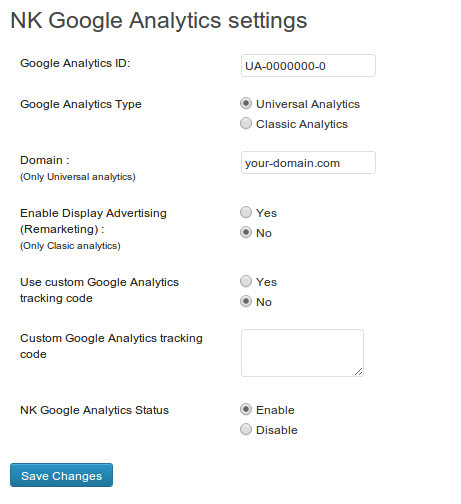
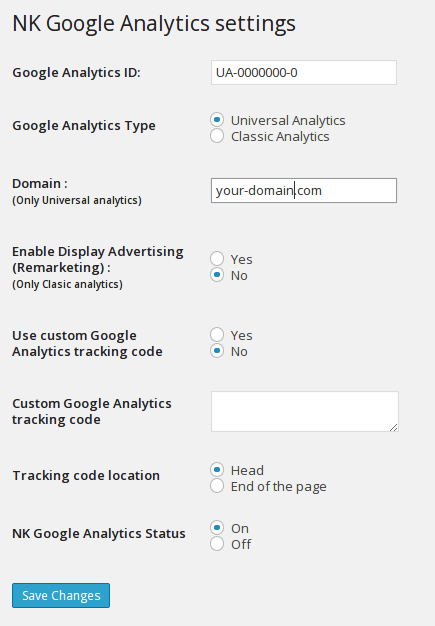
Updated Google Analytics

diff --git a/wp-content/plugins/nk-google-analytics/NKgoogleanalytics.php b/wp-content/plugins/nk-google-analytics/NKgoogleanalytics.php
@@ -3,8 +3,8 @@
 Plugin Name: NK Google Analytics
 Plugin URI: http://www.marodok.com/nk-google-analytics/
 Description: Add <a href="http://www.google.com/analytics/">Google Analytics</a> javascript code on all pages.
-Version: 1.2.7
-Author: Manfred Rodríguez
+Version: 1.3
+8Author: Manfred Rodríguez
 Author URI: http://www.marodok.com
 */
 
@@ -18,13 +18,21 @@ if (!defined('WP_PLUGIN_DIR'))
       define('WP_PLUGIN_DIR', WP_CONTENT_DIR.'/plugins');
 
 function activate_NKgoogleanalytics() {
+
+  $domain = 'your-domain.com';
+  if($_SERVER['SERVER_NAME']){
+    $domain = $_SERVER['SERVER_NAME'];
+  }
+
   add_option('nkweb_id', 'UA-0000000-0');
   add_option('nkweb_Display_Advertising', 'false');  
   add_option('nkweb_Universal_Analytics', 'true');
-  add_option('nkweb_Domain', 'your-domain.com');
+  add_option('nkweb_Domain', $domain);
   add_option('nkweb_Use_Custom', 'false');
   add_option('nkweb_Custom_Code', '');
-  add_option('nkweb_Enable_GA', 'true');
+  add_option('nkweb_Enable_GA', 'true');  
+  add_option('nkweb_Error', '');
+  add_option('nkweb_code_in_head', 'true');
 
   //Just for statistics
   try {
@@ -43,6 +51,8 @@ function deactive_NKgoogleanalytics() {
   delete_option('nkweb_Use_Custom');
   delete_option('nkweb_Custom_Code');
   delete_option('nkweb_Enable_GA');
+  delete_option('nkweb_Error');
+  delete_option('nkweb_code_in_head');
 }
 
 function admin_init_NKgoogleanalytics() {
@@ -53,6 +63,8 @@ function admin_init_NKgoogleanalytics() {
   register_setting('NKgoogleanalytics', 'nkweb_Use_Custom');
   register_setting('NKgoogleanalytics', 'nkweb_Custom_Code');
   register_setting('NKgoogleanalytics', 'nkweb_Enable_GA');
+  register_setting('NKgoogleanalytics', 'nkweb_Error');
+  register_setting('NKgoogleanalytics', 'nkweb_code_in_head');
 }
 
 function admin_menu_NKgoogleanalytics() {
@@ -73,6 +85,7 @@ function NKgoogleanalytics() {
   $nkweb_Use_Custom = get_option('nkweb_Use_Custom');
   $nkweb_Custom_Code = get_option('nkweb_Custom_Code');
   $nkweb_Enable_GA = get_option('nkweb_Enable_GA');
+  $nkweb_Error = get_option('nkweb_Error');  
 
   $tk = "";
   
@@ -85,10 +98,12 @@ function NKgoogleanalytics() {
       
       
       $tk .= "<script>" . $nkweb_Custom_Code . "</script>";
+      $tk = str_replace("<script><script>", "<script>", $tk);
+      $tk = str_replace("</script></script>", "</script>", $tk);
 
     }else{
       if($nkweb_id != "" && $nkweb_id != "UA-0000000-0"){
-
+        
         if($Universal_Analytics=="false"){
     
           $tk .= "<script type=\"text/javascript\">\n";
@@ -136,6 +151,8 @@ function NKgoogleanalytics() {
           $tk .= "</script> \n";
           
         }
+      }else{
+        update_option( "nkweb_Error", "There is a problem with your Google Analytics ID" );
       }
     }
     echo $tk;
@@ -149,9 +166,22 @@ if (is_admin()) {
   add_action('admin_menu', 'admin_menu_NKgoogleanalytics');
 }
 
-if (!is_admin()) {
-  
-  add_action('wp_head', 'NKgoogleanalytics'); 
+if(!function_exists('wp_get_current_user')) {
+    include(ABSPATH . "wp-includes/pluggable.php");
 }
 
-?>
+if(get_option('nkweb_code_in_head')=="true"){
+  $location = "wp_head";
+}else{
+  $location = "wp_footer";
+}
+
+try{
+  if (!current_user_can( 'edit_posts' )) {
+    add_action($location, 'NKgoogleanalytics');
+  }
+} catch (Exception $e) {
+  if (!is_admin()) { 
+    add_action($location, 'NKgoogleanalytics'); 
+  }  
+}

diff --git a/wp-content/plugins/nk-google-analytics/options.php b/wp-content/plugins/nk-google-analytics/options.php
@@ -6,7 +6,11 @@
 <?php settings_fields('NKgoogleanalytics'); ?>
 
 <?php 
+
+	$nkweb_Error = get_option('nkweb_Error');
 	$error = "";
+	if($nkweb_Error!="")	
+		$error = $nkweb_Error;		
 
 	if(get_option('nkweb_Enable_GA')!="true" && get_option('nkweb_Enable_GA')!="false"){
 		update_option( "nkweb_Enable_GA", "true" );
@@ -16,13 +20,14 @@
 	}
 	if(get_option('nkweb_Display_Advertising') == "true"){
 		if(get_option('nkweb_Universal_Analytics')== "true"){
-			$error = "Universal Analytics was set to 'No' because Remarketing is Yes.";
+			$error = "Google Analytics Type was set to 'Clasic Analytics' because Remarketing is Yes.";
 			update_option( "nkweb_Universal_Analytics", "false" );	
 		}		
 	}
 	if(get_option('nkweb_Universal_Analytics')== "true"){
+
 		if(get_option('nkweb_Display_Advertising') == "true"){
-			$error = "Remarketing was set to 'No' because Universal Analytics is Yes.";
+			$error = "Remarketing was set to 'No' because Google Analytics Type is 'Universal Analytics'.";
 			update_option( "nkweb_Display_Advertising", "false" );	
 		}		
 		
@@ -66,6 +71,10 @@
 		if(preg_match($pattern, trim(get_option('nkweb_Custom_Code')))){
 			$error="Seems that you wrote only your Google Analytics ID in custom code, you can write it in \"Google Analytics ID\" field and turn off custom tracking code.";
 		}
+	}
+	
+	if(!get_option('nkweb_code_in_head')){
+		update_option( "nkweb_code_in_head", "true" );
 	}
 
 if($error != ""){
@@ -123,10 +132,18 @@ if($error != ""){
 </tr>
 
 <tr valign="top">
+<th scope="row">Tracking code location</th>
+<td>
+	<input type="radio" name="nkweb_code_in_head" value="true" <?php if (get_option('nkweb_code_in_head') == "true"){ echo "checked "; } ?>> Head<br>
+	<input type="radio" name="nkweb_code_in_head" value="false"<?php if (get_option('nkweb_code_in_head') == "false"){ echo "checked "; } ?>>  End of the page<br>	
+</td>	
+</tr>
+
+<tr valign="top">
 <th scope="row">NK Google Analytics Status</th>
 <td>
-	<input type="radio" name="nkweb_Enable_GA" value="true" <?php if (get_option('nkweb_Enable_GA') == "true"){ echo "checked "; } ?>> Enable<br>
-	<input type="radio" name="nkweb_Enable_GA" value="false"<?php if (get_option('nkweb_Enable_GA') == "false"){ echo "checked "; } ?>>  Disable <br>	
+	<input type="radio" name="nkweb_Enable_GA" value="true" <?php if (get_option('nkweb_Enable_GA') == "true"){ echo "checked "; } ?>> On<br>
+	<input type="radio" name="nkweb_Enable_GA" value="false"<?php if (get_option('nkweb_Enable_GA') == "false"){ echo "checked "; } ?>>  Off <br>	
 </td>	
 </tr>
 
@@ -141,3 +158,6 @@ if($error != ""){
 
 </form>
 </div> 
+<br>
+<br>
+<br>
